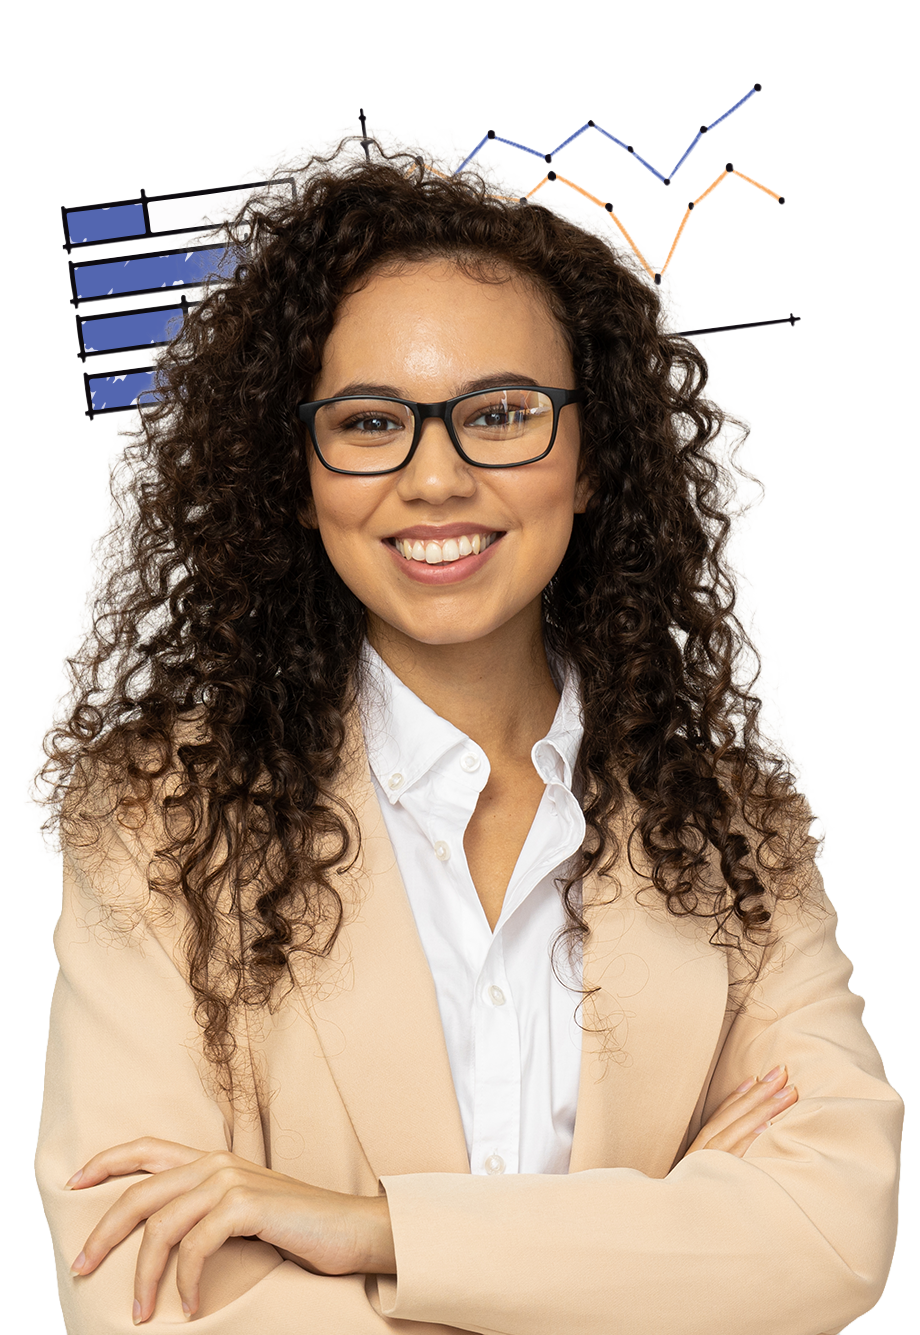
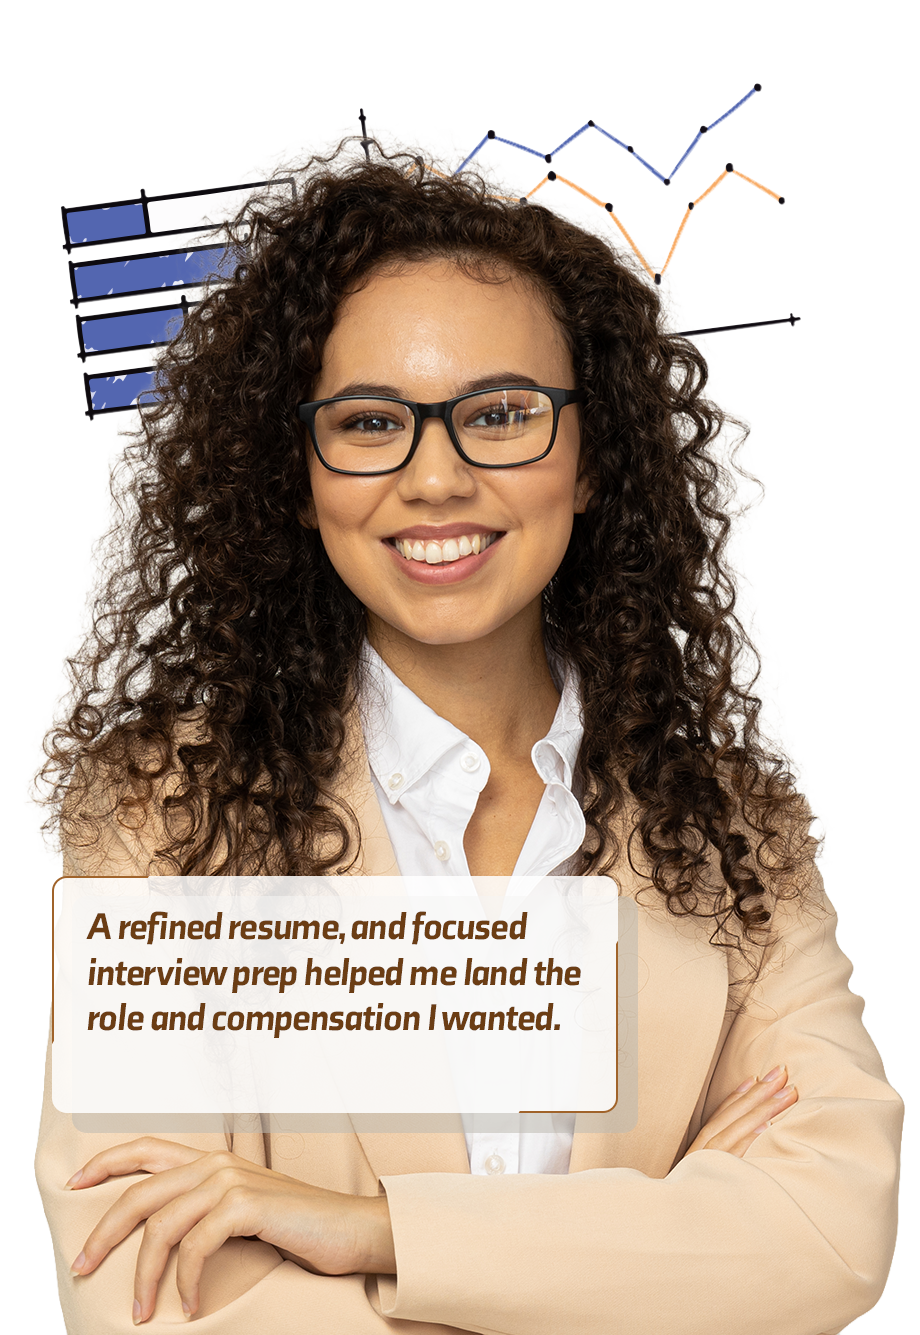
Updating Mobile and Adding Updated Images

Changed region(s): [[0.0304, 0.6449, 0.7, 0.8599]]

diff --git a/src/styles/main.css b/src/styles/main.css
@@ -271,23 +271,32 @@ button { font-family: var(--font-sans); cursor: pointer; }
   display: flex;
   border-bottom: 1px solid var(--color-border);
   margin-bottom: 40px;
+  gap: 4px;
 }
 .tab-btn {
   flex: 1;
-  background: none;
+  background: transparent;
   border: none;
   border-bottom: 2px solid transparent;
-  padding: 14px 8px;
+  border-radius: var(--radius-sm) var(--radius-sm) 0 0;
+  padding: 12px 8px;
   font-size: var(--text-sm);
   font-weight: 600;
   color: var(--color-ink-soft);
-  transition: color 0.15s, border-color 0.15s;
+  cursor: pointer;
+  font-family: var(--font-sans);
+  transition: color 0.15s, border-color 0.15s, background 0.15s;
   margin-bottom: -1px;
+  text-align: center;
 }
-.tab-btn:hover { color: var(--color-ink); }
+.tab-btn:hover {
+  color: var(--color-ink);
+  background: var(--color-surface-2);
+}
 .tab-btn.active {
   color: var(--color-ink);
   border-bottom-color: var(--color-accent);
+  background: var(--color-surface-2);
 }
 
 .tab-panel { display: none; }
@@ -768,9 +777,13 @@ details[open] .faq-toggle { transform: rotate(45deg); }
   :root { --text-3xl: 34px; --text-2xl: 26px; }
   .site-nav { display: none; }
   .tier-grid, .how-grid { grid-template-columns: 1fr; }
-  .tab-bar { flex-direction: column; border-bottom: none; }
-  .tab-btn { border-bottom: 1px solid var(--color-border); border-left: 2px solid transparent; text-align: left; margin-bottom: 0; }
-  .tab-btn.active { border-bottom-color: var(--color-border); border-left-color: var(--color-accent); }
+  .tab-bar {
+    gap: 2px;
+  }
+  .tab-btn {
+    font-size: 11px;
+    padding: 10px 4px;
+  }
   .case-slide { padding: 0 24px; }
   .qb-card { width: 90vw; right: -95vw; height: min(630px, 85vh); }
   .qb-card.open { right: 5vw; }
@@ -884,4 +897,114 @@ details[open] .faq-toggle { transform: rotate(45deg); }
   font-family: var(--font-sans) !important;
   font-size: 11px !important;
   color: var(--color-ink-soft) !important;
+}
+
+/* ─── Footer privacy link ─────────────────────────────────────────────────── */
+.footer-center {
+  flex: 1;
+  display: flex;
+  justify-content: center;
+}
+.privacy-link {
+  background: none;
+  border: none;
+  font-family: var(--font-sans);
+  font-size: var(--text-xs);
+  color: var(--color-ink-soft);
+  cursor: pointer;
+  padding: 0;
+  text-decoration: underline;
+  text-underline-offset: 3px;
+  transition: color 0.15s;
+}
+.privacy-link:hover { color: var(--color-ink); }
+
+/* ─── Privacy modal ───────────────────────────────────────────────────────── */
+.privacy-overlay {
+  position: fixed;
+  inset: 0;
+  background: rgba(30, 27, 24, 0.5);
+  z-index: 300;
+  opacity: 0;
+  visibility: hidden;
+  transition: opacity 0.2s ease, visibility 0.2s ease;
+}
+.privacy-overlay.open { opacity: 1; visibility: visible; }
+
+.privacy-modal {
+  position: fixed;
+  top: 50%;
+  left: 50%;
+  transform: translate(-50%, -50%) scale(0.97);
+  width: min(640px, 92vw);
+  max-height: 80vh;
+  background: var(--color-surface);
+  border: 1px solid var(--color-border);
+  border-radius: var(--radius-lg);
+  z-index: 301;
+  display: flex;
+  flex-direction: column;
+  opacity: 0;
+  visibility: hidden;
+  transition: opacity 0.2s ease, visibility 0.2s ease, transform 0.2s ease;
+}
+.privacy-modal.open {
+  opacity: 1;
+  visibility: visible;
+  transform: translate(-50%, -50%) scale(1);
+}
+
+.privacy-modal-header {
+  display: flex;
+  align-items: center;
+  justify-content: space-between;
+  padding: 20px 24px;
+  border-bottom: 1px solid var(--color-border);
+  flex-shrink: 0;
+}
+.privacy-modal-header h3 {
+  font-size: var(--text-base);
+  font-weight: 700;
+  margin: 0;
+}
+.privacy-close {
+  width: 30px;
+  height: 30px;
+  border-radius: 50%;
+  border: 1px solid var(--color-border);
+  background: transparent;
+  font-size: 18px;
+  line-height: 1;
+  color: var(--color-ink);
+  display: flex;
+  align-items: center;
+  justify-content: center;
+  padding: 0;
+  cursor: pointer;
+  transition: border-color 0.15s;
+}
+.privacy-close:hover { border-color: var(--color-ink-mid); }
+
+.privacy-modal-body {
+  padding: 24px;
+  overflow-y: auto;
+  flex: 1;
+}
+.privacy-updated {
+  font-family: var(--font-mono);
+  font-size: var(--text-xs);
+  color: var(--color-ink-soft);
+  margin-bottom: 20px;
+}
+.privacy-modal-body h4 {
+  font-size: var(--text-sm);
+  font-weight: 700;
+  margin: 20px 0 6px;
+}
+.privacy-modal-body h4:first-of-type { margin-top: 0; }
+.privacy-modal-body p {
+  font-size: var(--text-sm);
+  color: var(--color-ink-soft);
+  line-height: 1.7;
+  margin: 0;
 }

diff --git a/index.html b/index.html
@@ -351,19 +351,44 @@
     <div class="footer-logo">
       <img src="./public/logo.png" alt="Vantage Delta">
     </div>
-    <nav class="footer-nav">
-      <a href="#lab01">Lab 01</a>
-      <a href="#lab02">Lab 02</a>
-      <a href="#lab03">Lab 03</a>
-      <a href="#how">How it works</a>
-      <a href="#cases">Results</a>
-      <a href="#faq">FAQ</a>
-    </nav>
+    <div class="footer-center">
+      <button class="privacy-link" id="privacyBtn">Privacy policy</button>
+    </div>
     <div class="footer-meta">
       <span>&copy; 2026 Vantage Delta</span>
     </div>
   </div>
 </footer>
+
+<!-- ─── Privacy Policy modal ──────────────────────────────────────────────── -->
+<div class="privacy-overlay" id="privacyOverlay"></div>
+<div class="privacy-modal" id="privacyModal" role="dialog" aria-label="Privacy policy">
+  <div class="privacy-modal-header">
+    <h3>Privacy policy</h3>
+    <button class="privacy-close" id="privacyClose" aria-label="Close">&times;</button>
+  </div>
+  <div class="privacy-modal-body">
+    <p class="privacy-updated">Last updated: June 2026</p>
+
+    <h4>Information we collect</h4>
+    <p>When you use our Quick Book form, we collect your name, email address, and any details you choose to share about your goals. This information is submitted to and stored in HubSpot CRM for the sole purpose of responding to your inquiry.</p>
+
+    <h4>How we use your information</h4>
+    <p>We use your contact information only to respond to your inquiry and, with your consent, to send you relevant updates about Vantage Delta services. We do not sell, rent, or share your personal information with third parties for marketing purposes.</p>
+
+    <h4>Cookies and analytics</h4>
+    <p>This site may use cookies to understand how visitors interact with our pages. No personally identifiable information is collected through cookies without your explicit consent.</p>
+
+    <h4>Third-party services</h4>
+    <p>We use HubSpot for form submissions and contact management, Calendly for session scheduling, and Vercel for site hosting. Each of these services maintains their own privacy policies governing data they process on our behalf.</p>
+
+    <h4>Your rights</h4>
+    <p>You may request access to, correction of, or deletion of your personal data at any time by contacting us directly. We will respond within 30 days.</p>
+
+    <h4>Contact</h4>
+    <p>For any privacy-related questions, please reach out via the Quick Book form or directly through your coach.</p>
+  </div>
+</div>
 
 <!-- ─── Quick Book card ────────────────────────────────────────────────────── -->
 <div class="qb-overlay" id="qbOverlay"></div>

diff --git a/src/js/main.js b/src/js/main.js
@@ -206,3 +206,23 @@ document.getElementById('clientLoginBtn')?.addEventListener('click', () => {
   /* Replace with redirect to /login or auth provider when ready */
   alert('Client portal coming soon.');
 });
+
+/* ── Privacy modal ───────────────────────────────────────────────────────── */
+const privacyOverlay = document.getElementById('privacyOverlay');
+const privacyModal   = document.getElementById('privacyModal');
+
+function openPrivacy() {
+  privacyOverlay.classList.add('open');
+  privacyModal.classList.add('open');
+  document.body.style.overflow = 'hidden';
+}
+function closePrivacy() {
+  privacyOverlay.classList.remove('open');
+  privacyModal.classList.remove('open');
+  document.body.style.overflow = '';
+}
+
+document.getElementById('privacyBtn')?.addEventListener('click', openPrivacy);
+document.getElementById('privacyClose')?.addEventListener('click', closePrivacy);
+privacyOverlay?.addEventListener('click', closePrivacy);
+document.addEventListener('keydown', e => { if (e.key === 'Escape') closePrivacy(); });